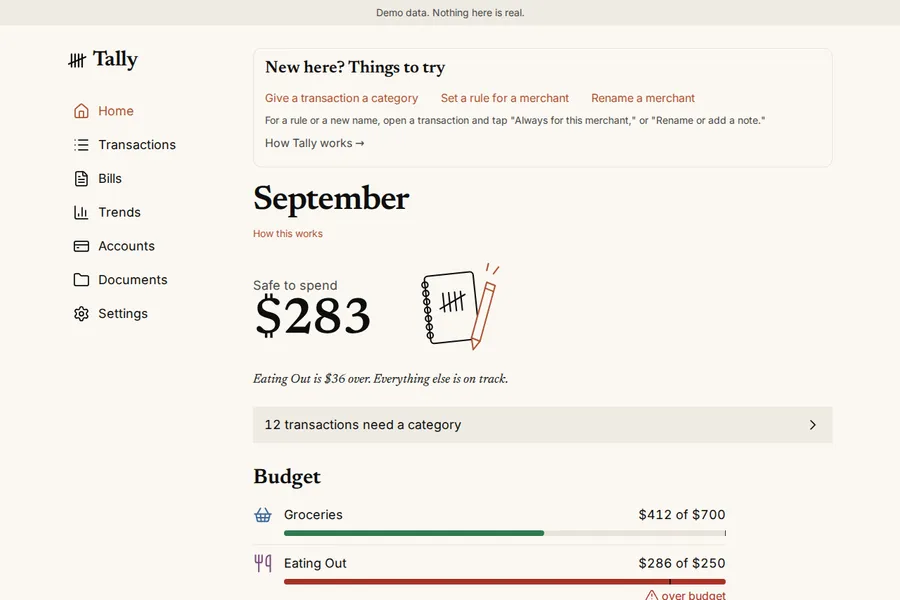
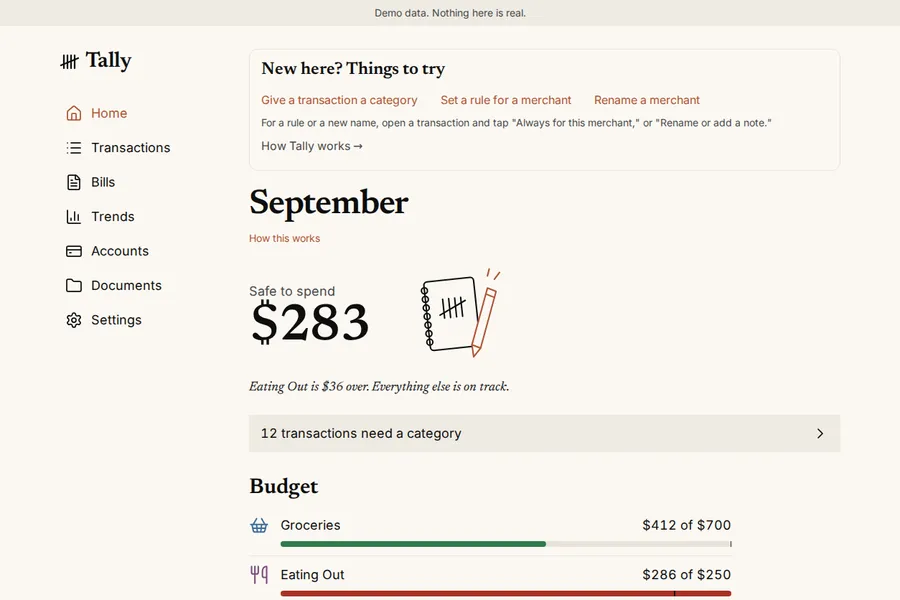
Refresh two door pictures
The website door showed the header this branch replaces; it is now
CI's capture of this branch's Home, real fonts included. The Tally
crop ends just under the Eating Out bar instead of on a cut label.
The review record carries the new sources and hashes.

Claude-Session: https://claude.ai/code/session_013Fi1JsrawUmvmz3NM4VwQu

diff --git a/docs/asset-reviews/work-with-me-doors.md b/docs/asset-reviews/work-with-me-doors.md
@@ -4,10 +4,10 @@
 - Reviewer: Claude Code agent, September 26, 2026. This is agent QA, not owner acceptance of the implemented page. The owner chose the "real work, one image each" treatment and these three subjects on September 26, 2026, from rendered previews.
 - Sources:
   - `work-with-me-mixing.webp`: the Old News single artwork already published at `/music/old-news` (`public/music/old-news-single-0db5fc05dca4ee79.webp`, 1254 × 1254), cropped to the 1254 × 836 band from 250 px down so the masthead and the skyline fill a 3:2 frame. The release's public credits give the owner vocals, recording, vocal mixing and mastering, and credit the beat production and instrumental mix to its producer, so the caption claims only the vocal mix and master.
-  - `work-with-me-website.webp`: this site's redesigned Home, the existing project asset `src/assets/projects/website/home-after.png` (1440 × 1000), top 1440 × 960.
-  - `work-with-me-software.webp`: Tally's Home screen from the public tally repository's `screenshots` branch (pull request 75, head `322167d`, `home-desktop.png`, 1280 × 1179), top 1280 × 853. Demo data only: the "Demo data. Nothing here is real." banner is in frame. No address bar, console or terminal text.
-- Native-resolution inspection: pass. Each crop keeps its subject whole (the masthead and skyline; the name, tagline and desk scene; the Tally sidebar, safe-to-spend figure and budget bars). The Tally crop ends mid-list below the Eating Out bar, as a capture of a longer page does; the clipped "over budget" label under that bar is not legible at door size. The Tally capture shows a fictional household and no real account, person or amount.
-- Delivery: WebP quality 80, 900 × 600 each; 133,168, 37,118 and 24,670 bytes. The doors render at most 370 px wide on desktop and 104 px wide on the phone, so 900 px covers a 2× display. CSS shows each at 3:2 with `object-fit: cover`, anchored to the top; the files are already 3:2, so nothing is cropped at runtime.
+  - `work-with-me-website.webp`: this site's Home as this pull request leaves it, from CI's capture of the branch at `715b072` (`screenshots` branch, `pr-122/715b072/home-desktop.png`, 1280 × 3736 full page, real web fonts), top 1280 × 853. It shows the current header and the Work with me strip, so the door does not contradict the header above it.
+  - `work-with-me-software.webp`: Tally's Home screen from the public tally repository's `screenshots` branch (pull request 75, head `322167d`, `home-desktop.png`, 1280 × 1179), the 1254 × 836 band from 13 px in, so the frame ends just under the Eating Out bar. Demo data only: the "Demo data. Nothing here is real." banner is in frame. No address bar, console or terminal text.
+- Native-resolution inspection: pass. Each crop keeps its subject whole (the masthead and skyline; the name, tagline, desk scene and the top of the strip; the Tally sidebar, safe-to-spend figure and two budget bars) with no cut-off text along the edges. The Tally capture shows a fictional household and no real account, person or amount.
+- Delivery: WebP quality 80, 900 × 600 each; 133,168, 38,932 and 24,748 bytes. The doors render at most 370 px wide on desktop and 104 px wide on the phone, so 900 px covers a 2× display. CSS shows each at 3:2 with `object-fit: cover`, anchored to the top; the files are already 3:2, so nothing is cropped at runtime.
 - Page inspection: pass at 1280 px desktop and 390 px phone in the development preview (see the pull request's captures). Pictures stay separate from copy and buttons and sit on a hairline rule with a paper-toned background.
 - Accessibility and motion: empty alternative text; the visible caption, title, line and button beside each picture carry the meaning, and the picture's own link is removed from the tab order so each door has one stop. Static images, lazy-loaded; no autoplay.
 - Publication check: no private content, secrets, home address, real money or third-party logo. The Tally capture is demo data with its banner visible, per the publicist rules. No claim of production readiness is made on the doors; the captions say what each picture is.
@@ -26,17 +26,17 @@
     },
     {
       "path": "src/assets/site/work-with-me-website.webp",
[2 lines of base64/hex data omitted]
       "width": 900,
       "height": 600,
-      "bytes": 37118
+      "bytes": 38932
     },
     {
       "path": "src/assets/site/work-with-me-software.webp",
[2 lines of base64/hex data omitted]
       "width": 900,
       "height": 600,
-      "bytes": 24670
+      "bytes": 24748
     }
   ]
 }
